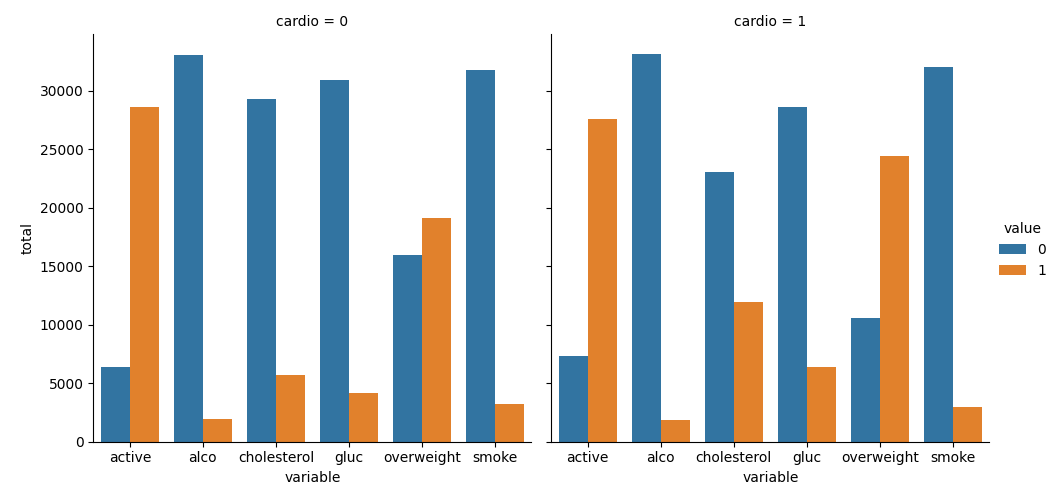
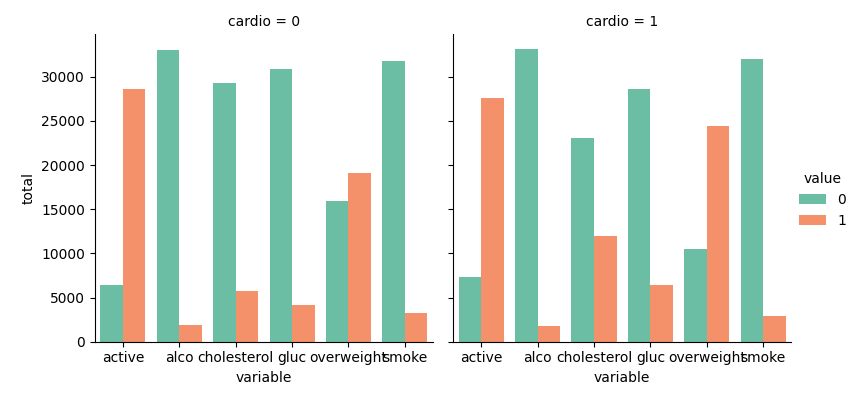
feat: "arruma estetica do grafico"

diff --git a/medical_data_visualizer.py b/medical_data_visualizer.py
@@ -23,7 +23,7 @@ df["gluc"] = (df["gluc"] > 1).astype(int)
 # 4
 def draw_cat_plot():
     # 5
-    # Chama as categorias
+    # Chama as categorias do catplot
     df_cat = pd.melt(
         df,
         id_vars=["cardio"],
@@ -46,7 +46,10 @@ def draw_cat_plot():
         y="total",
         hue="value",
         col="cardio",
-        kind="bar"
+        kind="bar",
+        palette="Set2",     #muda as cores
+        saturation=0.9,      #saturaçao das cores
+        height=4, aspect=1    #tamanho do catplot
     )
 
     # 8
